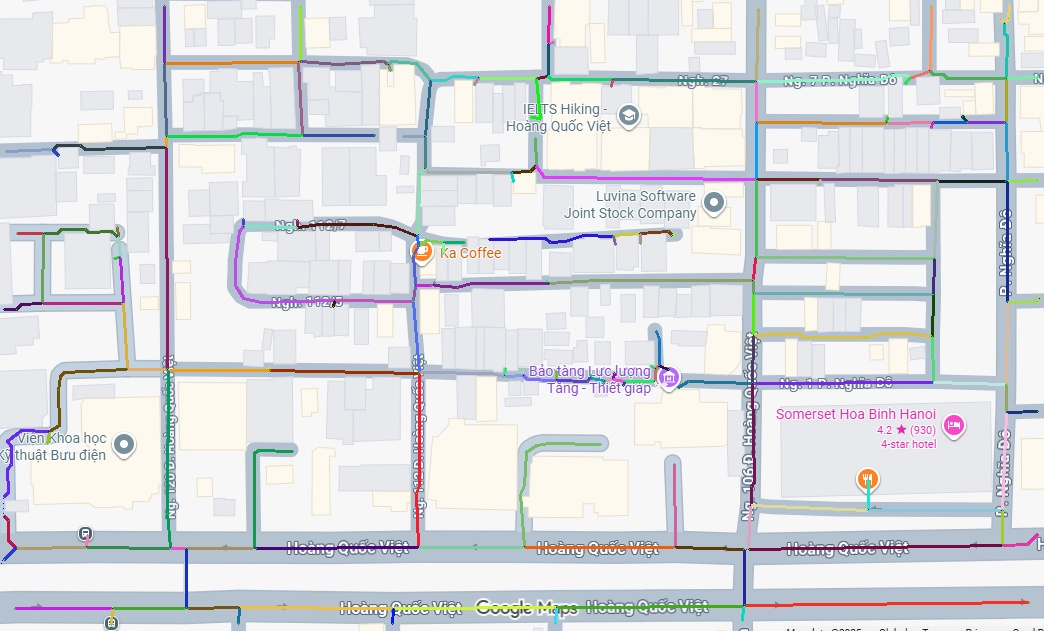
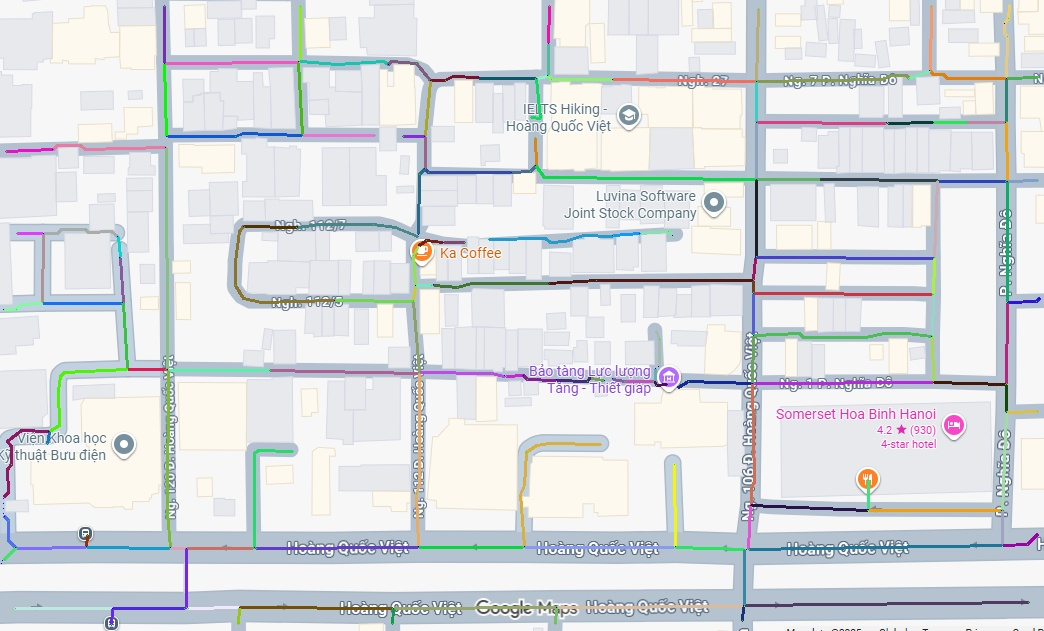
10/8

diff --git a/centerline_extractor.py b/centerline_extractor.py
@@ -33,7 +33,7 @@ def extract_centerline_and_junctions(image_path, debug=False):
     kernel_noise = cv2.getStructuringElement(cv2.MORPH_RECT, (3, 3))
     mask_road_clean = cv2.morphologyEx(mask_road_clean, cv2.MORPH_OPEN, kernel_noise)
 
-    # Thêm morphological closing để nối các đoạn gần nhau (bỏ comment nếu cần)
+    # Thêm morphological closing để nối các đoạn gần nhau 
     kernel = cv2.getStructuringElement(cv2.MORPH_RECT, (8, 8))
     mask_road_clean = cv2.morphologyEx(mask_road_clean, cv2.MORPH_CLOSE, kernel)
 
@@ -132,7 +132,9 @@ def extract_centerline_and_junctions(image_path, debug=False):
         for (nx, ny) in get_neighbors(x, y):
             if not visited[ny, nx]:
                 segment = trace_segment((x, y), (nx, ny))
-                if len(segment) > 2:
+                start, end = segment[0], segment[-1]
+                length = np.hypot(end[0] - start[0], end[1] - start[1])
+                if length > 10:
                     endpoints_pair = tuple(sorted([segment[0], segment[-1]]))
                     if endpoints_pair not in segments_seen:
                         segments_seen.add(endpoints_pair)
